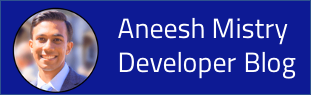
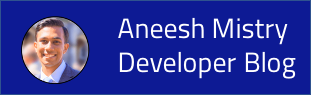
social card

Changed region(s): [[0.0288, 0.0612, 0.3163, 0.949]]

diff --git a/src/components/seo.js b/src/components/seo.js
@@ -72,7 +72,7 @@ function SEO({
         },
         {
           property:`og:image`,
-          content: `https://aneesh.co.uk/static/c077d20103168955b9bdbaebc1d3ca7d/5a46d/socialCard.png`,
+          content: `https://aneesh.co.uk/static/e325f4b55d67b2ffd2ff1ca7ef887ee8/5a46d/socialCard.png`,
         },
         {
           property: `og:type`,
@@ -100,7 +100,7 @@ function SEO({
         },
         {
           name: `twitter:image`,
-          content: `https://aneesh.co.uk/static/c077d20103168955b9bdbaebc1d3ca7d/5a46d/socialCard.png`,
+          content: `https://aneesh.co.uk/static/e325f4b55d67b2ffd2ff1ca7ef887ee8/5a46d/socialCard.png`,
         },
       ]
       .concat(meta)

diff --git a/src/blogInProgress/027_ContinuousInt.md b/src/blogInProgress/027_ContinuousInt.md
@@ -19,9 +19,9 @@ tags:
 
 
 <br>
-<h4>What is </h4>
+<h4>What is continuous integration?</h4>
 <p>
-
+While writing the source code 
 
 </p>
 <br>
